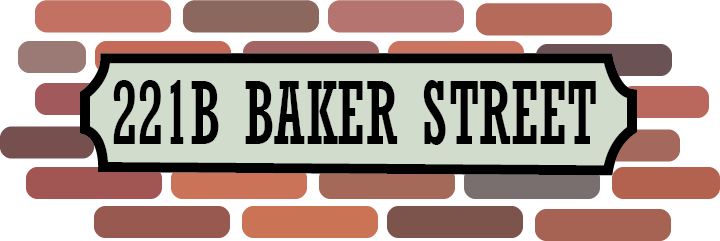
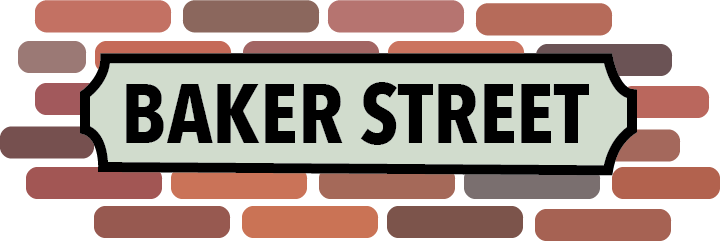
##

Changed region(s): [[0.1528, 0.3195, 0.825, 0.61]]

diff --git a/index2.html b/index2.html
@@ -1,7 +1,7 @@
 <!DOCTYPE html>
 <html>
     <head> 
-        <title>Heroes and Villians</title>
+        <title>Heroes and Villains</title>
 		
 		<meta name="viewport" content="width=device-width, initial-scale=1">
 		
@@ -14,75 +14,93 @@
 		
 	</head>
 	
-	<body>
-		
-		<img class="baker" src="images/baker%20street.png"/>
-		
-<nav>
+	<body>      
+        
+<nav class="nav">
     <ul>
-        <li><a href="#Sherlock Holmes">Holmes</a></li>
-        <li><a href="#Dr Watson">Watson</a></li>
-        <li><a href="#Moriarty">Moriarty</a></li>
-        <li><a href="#Irene Alder">Adler</a></li>
+        <li><a href="#Sherlock Holmes">HOLMES</a></li>
+        <li><a href="#Dr Watson">WATSON</a></li>
+        <li><a href="#Moriarty">MORIARTY</a></li>
+        <li><a href="#Irene Alder">ADLER</a></li>
      </ul>
      </nav>
+        
+        
+        <img class="bkr" src="images/baker%20street.png"/>  
 		
-
+<article>
+    
+    <h2>Heroes and Villains</h2>
+    
 <p>Sir Arthur Conan Doyle's celebrated Holme's characters have lived a life beyond the printed page. Recent adaptations, brought to life on the silver screen, include Benedict Cumberbatch and Martin Freeman's portrayal in <a href="https://en.wikipedia.org/wiki/Sherlock_(TV_series)">Sherlock</a>, and &#45; more recently &#45; Sir Ian McKellen's portrayal in <a href="https://en.wikipedia.org/wiki/Mr._Holmes">Mr Holmes</a>.</p>
 
 <p>Conan Doyle's writings lives on from generation to generation. As Scott Monty puts it:</p>
 
 <blockquote> "Every generation or so some kind of cycle happens, some big book or movie begins to start the process and then others seem to follow up."</blockquote>
 
-<cite> -Scott Monty a member of the Sherlock Holmes Enthusiast Group 'Baker Street Irregulars'</cite>
+<cite> - Scott Monty a member of the Sherlock Holmes Enthusiast Group 'Baker Street Irregulars'</cite>
 		
-
+<p></p>
+        
 <h2 id="Sherlock Holmes">Sherlock Holmes</h2>
+<img class="sher" src="images/sherlock2.png"/>
+        
+ <div class="news">
+Sherlock Holmes is a fictional private detective created by British author Sir Arthur Conan Doyle. Known as a "consulting detective" in the stories, Holmes is known for a proficiency with observation, forensic science, and logical reasoning that borders on the fantastic, which he employs when investigating cases for a wide variety of clients, including Scotland Yard. Amongst other foibles, Holmes had a penchant for papier mach&eacute;.
+        
+First appearing in print in 1887 (in A Study in Scarlet), the character's popularity became widespread with the first series of short stories in The Strand Magazine, beginning with "A Scandal in Bohemia" in 1891; additional tales appeared from then to 1927, eventually totalling four novels and 56 short stories.
+        
+All but one are set in the Victorian or Edwardian periods, taking place between about 1880 to 1914. Most are narrated by the character of Holmes's friend and biographer Dr. Watson, who usually accompanies Holmes during his investigations and often shares quarters with him at the address of 221B Baker Street, London, where many of the stories begin.</div>
 
-<p>Sherlock Holmes is a fictional private detective created by British author Sir Arthur Conan Doyle. Known as a "consulting detective" in the stories, Holmes is known for a proficiency with observation, forensic science, and logical reasoning that borders on the fantastic, which he employs when investigating cases for a wide variety of clients, including Scotland Yard. Amongst other foibles, Holmes had a penchant for papier mach&eacute;.</p>
-
-<p>First appearing in print in 1887 (in A Study in Scarlet), the character's popularity became widespread with the first series of short stories in The Strand Magazine, beginning with "A Scandal in Bohemia" in 1891; additional tales appeared from then to 1927, eventually totalling four novels and 56 short stories.</p>
-
-<p>All but one are set in the Victorian or Edwardian periods, taking place between about 1880 to 1914. Most are narrated by the character of Holmes's friend and biographer Dr. Watson, who usually accompanies Holmes during his investigations and often shares quarters with him at the address of 221B Baker Street, London, where many of the stories begin.</p>
-
-<img class="sher" src="images/sherlock.png"/>
-
+<p></p>
+        
 <h2 id="Dr Watson">Dr Watson</h2>
+<img class="watson" src="images/watson1.png"/>
 
-<p>Dr John H. Watson is a medical doctor, formerly in the British Army. He was married to Mary Watson and is arguably the only friend and confidant of Sherlock Holmes.</p>
+        <div class="newspaper">
+Dr John H. Watson is a medical doctor, formerly in the British Army. He was married to Mary Watson and is arguably the only friend and confidant of Sherlock Holmes.
 
-<p>In the debut Holmes story A Study in Scarlet, Watson, as the narrator, describes meeting Holmes, their subsequent sharing of rooms at 221B Baker Street, his attempts to discover the profession of his taciturn companion, Holmes's eventual taking of Watson into his confidence, and the events surrounding their first case together. Watson describes Holmes and his methods in too romantic and sentimental a manner for Holmes' taste. In time, they become close friends. In The Sign of Four, John Watson met Mary Morstan, who became his wife. Mary seemed somewhat less sure of her husband, however, absentmindedly calling him "James" in the short story "The Man with the Twisted Lip". This may be a simple typographical error, though some have speculated that it is a wifely reference to Watson's unknown middle name, which could have been "Hamish" (Scottish for "James") Dorothy Sayers, creator of the detective Lord Peter Wimsey, also wrote several essays on Holmesian speculation, later published this theory in Unpopular Opinions.</p>
+In the debut Holmes story A Study in Scarlet, Watson, as the narrator, describes meeting Holmes, their subsequent sharing of rooms at 221B Baker Street, his attempts to discover the profession of his taciturn companion, Holmes's eventual taking of Watson into his confidence, and the events surrounding their first case together. Watson describes Holmes and his methods in too romantic and sentimental a manner for Holmes' taste. In time, they become close friends. In The Sign of Four, John Watson met Mary Morstan, who became his wife. Mary seemed somewhat less sure of her husband, however, absentmindedly calling him "James" in the short story "The Man with the Twisted Lip". This may be a simple typographical error, though some have speculated that it is a wifely reference to Watson's unknown middle name, which could have been "Hamish" (Scottish for "James") Dorothy Sayers, creator of the detective Lord Peter Wimsey, also wrote several essays on Holmesian speculation, later published this theory in Unpopular Opinions.</div>
 
+        <p></p>
 
 <h2 id="Moriarty">Moriarty</h2>
+<img class="mori" src="images/moriarty1.png"/>
 
-<p>Professor James Moriarty, the arch-enemy of the famous Detective Sherlock Holmes, a mathematics professor turned the world's only consulting criminal. His genius is equal to, if not perhaps greater than, Holmes himself.</p>
+<div class="news">        
+Professor James Moriarty, the arch-enemy of the famous Detective Sherlock Holmes, a mathematics professor turned the world's only consulting criminal. His genius is equal to, if not perhaps greater than, Holmes himself.
 
-<p>He is the Napoleon of crime, Watson. He is the organizer of half that is evil and of nearly all that is undetected in this great city. He is a genius, a philosopher, an abstract thinker. He has a brain of the first order. He sits motionless, like a spider in the centre of its web, but that web has a thousand radiations, and he knows well every quiver of each of them. Sherlock Holmes speaking of Moriarty to Watson.</p>
+He is the Napoleon of crime, Watson. He is the organizer of half that is evil and of nearly all that is undetected in this great city. He is a genius, a philosopher, an abstract thinker. He has a brain of the first order. He sits motionless, like a spider in the centre of its web, but that web has a thousand radiations, and he knows well every quiver of each of them. Sherlock Holmes speaking of Moriarty to Watson.
 
-<p>Despite only appearing in two stories, Moriarty has been proven to be the most dangerous of all criminals that Holmes has ever encountered. In the short story "The Adventure of the Final Problem", during a fight with Holmes above the Reichenbach Falls, Moriarty fell to his death.</p>
+Despite only appearing in two stories, Moriarty has been proven to be the most dangerous of all criminals that Holmes has ever encountered. In the short story "The Adventure of the Final Problem", during a fight with Holmes above the Reichenbach Falls, Moriarty fell to his death.</div>
 
-
+<p></p>
+        
 <h2 id="Irene Adler">Irene Adler</h2>
+        
+<img class="adler" src="images/adler1.png"/>
+<div class="newspaper">
+Irene Adler, professionally known as "The Woman", is a brilliant dominatrix who has an apparently romantic attraction to Sherlock Holmes.
 
-<p>Irene Adler, professionally known as "The Woman", is a brilliant dominatrix who has an apparently romantic attraction to Sherlock Holmes.</p>
+Whilst Mycroft is telling Sherlock about Irene, he states that she is a dominatrix who gives out 'recreational scolding' to people. She has been in the middle of two political scandals in recent years, one of them involving a famous author, in which she had an affair with both sides.
 
-<p>Whilst Mycroft is telling Sherlock about Irene, he states that she is a dominatrix who gives out 'recreational scolding' to people. She has been in the middle of two political scandals in recent years, one of them involving a famous author, in which she had an affair with both sides.</p>
+She is brought to Sherlock's attention when he and John are summoned to Buckingham Palace by Mycroft and are asked to take on a case of national importance. Irene had taken compromising images of a young female member of the British Royal family during a dominatrix session.
 
-<p>She is brought to Sherlock's attention when he and John are summoned to Buckingham Palace by Mycroft and are asked to take on a case of national importance. Irene had taken compromising images of a young female member of the British Royal family during a dominatrix session.</p>
+Even though Irene does not want money or power for the pictures, Sherlock is tasked in getting them back. She is using them, and other information on her mobile phone, for her "protection".</div>
 
-<p>Even though Irene does not want money or power for the pictures, Sherlock is tasked in getting them back. She is using them, and other information on her mobile phone, for her "protection".</p>
-
-
+<p></p>
+        
 <h2 id="Silver Screen">Adaptations on the Silver Screen</h2>
 
 <p>Sir Arthur Conan Doyle's celebrated Holme's characters have lived a life beyond the printed page. Recent adaptations, brought to life on the silver screen, include Benedict Cumberbatch and Martin Freeman's portrayal in <a href="https://en.wikipedia.org/wiki/Sherlock_(TV_series)">Sherlock</a>, and &#45; more recently &#45; Sir Ian McKellen's portrayal in <a href="https://en.wikipedia.org/wiki/Mr._Holmes">Mr Holmes</a>.</p>
-
-
+</article>
+<p></p>
 		
-<footer>The content on this page draws on copy from Wikipedia. This has been reworked to incorporate a comprehensive set of HTML5 elements to ensure semantics is full explored.
-
-</footer>
+<img class="door" src="images/door.png"/>        
+        
+<footer class="foot">The content on this page draws on copy from Wikipedia. This has been reworked to incorporate a comprehensive set of HTML5 elements to ensure semantics is full explored.</footer>
+    
+    <footer class="love">Made with &#9829; by: Leah Smyth 2016 &#169</footer>
 		
 	</body>
 	

diff --git a/css/style.css b/css/style.css
@@ -5,26 +5,7 @@
 	line-height:1em;
 	}
 
-body { max-width:100%;
-			min-height:100%;
-			font-size:1em;
-            font-family: 'Slabo 27px', serif;
-            margin:auto;
-            line-height:1em;
-		  	text-align:justify;
-			overflow-x:hidden;
-			color:black;
-			background:#fff;}
-
-p{padding-bottom:.5em;
-	padding-left:5em;
-	padding-right:5em;
-	padding-top:.5em;
-	line-height:1.5em;
-	font-size:1.3em;
-	color:#000;
-	font-family: 'Gentium Basic', serif;
-	}
+/*---Heading---*/
 
  h1 {font-family: 'Tangerine', cursive;
 	 font-weight:bold;
@@ -43,8 +24,10 @@ h2 { font-family: 'Tangerine', cursive;
 			padding-bottom:.5em;
 			}
 
-blockquote{font-size:1.7em;
-			color:firebrick;
+/*---Quote---*/
+
+blockquote{font-size:1.5em;
+			color:#C77255;
 			line-height:1.35em;
 			padding-left:3.5em;
 			padding-right:3.5em;
@@ -57,49 +40,161 @@ cite{font-size:.9em;
 	padding-left:46em;
 }
 
-footer{font-family: 'Gentium Basic', serif;
-	font-size:1em;
-		padding-bottom:1.5em;
+/*---Nav---*/
+
+.nav a{font-family: 'Gentium Basic', serif;
+	padding:4em 1em;
+	text-align:center;
+	margin:10px;
+	color:#000;
+	text-decoration:none;
+	font-size:1.5em;
+	font-weight:bold;}
+
+nav {padding-top:1em;
+	padding-bottom:1em;}
+
+nav ul {text-align:center;}
+
+nav ul li {display:inline;
+	margin:10px;
+	text-align:center;}
+
+nav{position:fixed;
+	top:0;
+	left:0;
+	margin:0;
+	width:100%;
+    background:#fff;
+	z-index:2;
+    border-bottom:#db8265 2px solid;}
+
+.nav a:hover{text-decoration:none;
+			color:#db8265;
+			font-weight:bold;}
+
+a:link{color:#975950;
+		text-decoration:none;}
+		
+
+
+/*---Images---*/
+
+.bkr{position:relative;
+    max-width:60%;
+    padding-left:18em;
+    padding-bottom:1em;
+    padding-top:6em;}
+
+.sher{position:relative;
+    float:right;
+			max-width:15%;
+			margin:15px;
+            padding-right:4em;
+			padding-left:1.25em;
+			padding-bottom:1em;}
+
+.watson{position:relative;
+    float:left;
+			max-width:15%;
+			margin:15px;
+			padding-left:4em;
+			padding-right:1em;
+			padding-bottom:1em;}
+
+.mori{position:relative;
+    float:right;
+			max-width:12%;
+			margin:15px;
+            padding-right:4em;
+			padding-left:1.25em;
+			padding-bottom:1em;}
+
+.adler{position:relative;
+    float:left;
+        max-width:10%;
+			margin:15px;
+			padding-left:4em;
+			padding-right:1em;
+			padding-bottom:1em;}
+
+.door{position:relative;
+    max-width:7%;
+    padding-left:36.5em;
+    padding-bottom:1em;}
+
+/*---Text---*/
+
+body { max-width:100%;
+			min-height:100%;
+			font-size:1em;
+            font-family: 'Slabo 27px', serif;
+            margin:auto;
+            line-height:1em;
+		  	text-align:left;
+			overflow-x:hidden;
+			color:black;
+			background:#fff;}
+
+p{padding-bottom:.5em;
+	padding-left:5em;
+	padding-right:5em;
+	padding-top:.5em;
+	line-height:1.5em;
+	font-size:1.2em;
+	color:#000;
+	font-family: 'Gentium Basic', serif;
+	}
+
+.newspaper{
+    -webkit-column-count:3; /* Chrome, Safari, Opera */
+    -moz-column-count:3; /* Firefox */
+    column-count:3;
+}
+
+.newspaper{padding-bottom:.5em;
+	padding-left:2em;
+	padding-right:5em;
+	padding-top:.5em;
+	line-height:1.3em;
+	font-size:1.2em;
+	color:#000;
+    text-align:justify;
+	font-family: 'Gentium Basic', serif;
+	}
+
+.news{
+    -webkit-column-count:3; /* Chrome, Safari, Opera */
+    -moz-column-count:3; /* Firefox */
+    column-count:3;
+}
+
+.news{padding-bottom:.5em;
+	padding-left:5em;
+	padding-right:2em;
+	padding-top:.5em;
+	line-height:1.3em;
+	font-size:1.2em;
+	color:#000;
+    text-align:justify;
+	font-family: 'Gentium Basic', serif;
+	}
+
+.foot{font-family: 'Gentium Basic', serif;
+	font-size:.9em;
+		padding-bottom:.5em;
 		padding-left:10em;
 		padding-top:1.5em;
 		padding-right:6em;
-		color:#fff;
-		background-color:#db8265;}
+		color:#000;
+		border-top:#db8265 2px solid;}
 
-nav {font-size:1.5em;
-	border-top: 1px solid #975950;
-	border-bottom: 1px solid #975950;
-	padding: 1.5em 0;
-	}
-
-nav ul {
-	text-align: center;
-	}
-
-nav ul li {
-	display: inline;
-	margin: 10px;
-	text-align: center;
-	}
-
-a:link{color: black;
-			text-decoration: none;
-			text-transform: uppercase;
-			letter-spacing: 1px;
-			text-align: center;
-			line-height: 1.5em;
-            padding: 1em -1em 1em -1em;
-			}
-
-a:hover {color:firebrick;}
-
-.baker{
-	position:relative; 
-	left:19em;
-	padding-top:2em;
-	padding-bottom:2em;}
-
-.sher{max-width:30%;
-	padding-top:2em;
-	left:29em;
-	position:relative;}
+.love{font-family: 'Gentium Basic', serif;
+	   font-size:.8em;
+        text-align:center;
+		padding-bottom:1.5em;
+		padding-left:3em;
+		padding-top:1em;
+		padding-right:6em;
+		color:#db8265;
+		}
